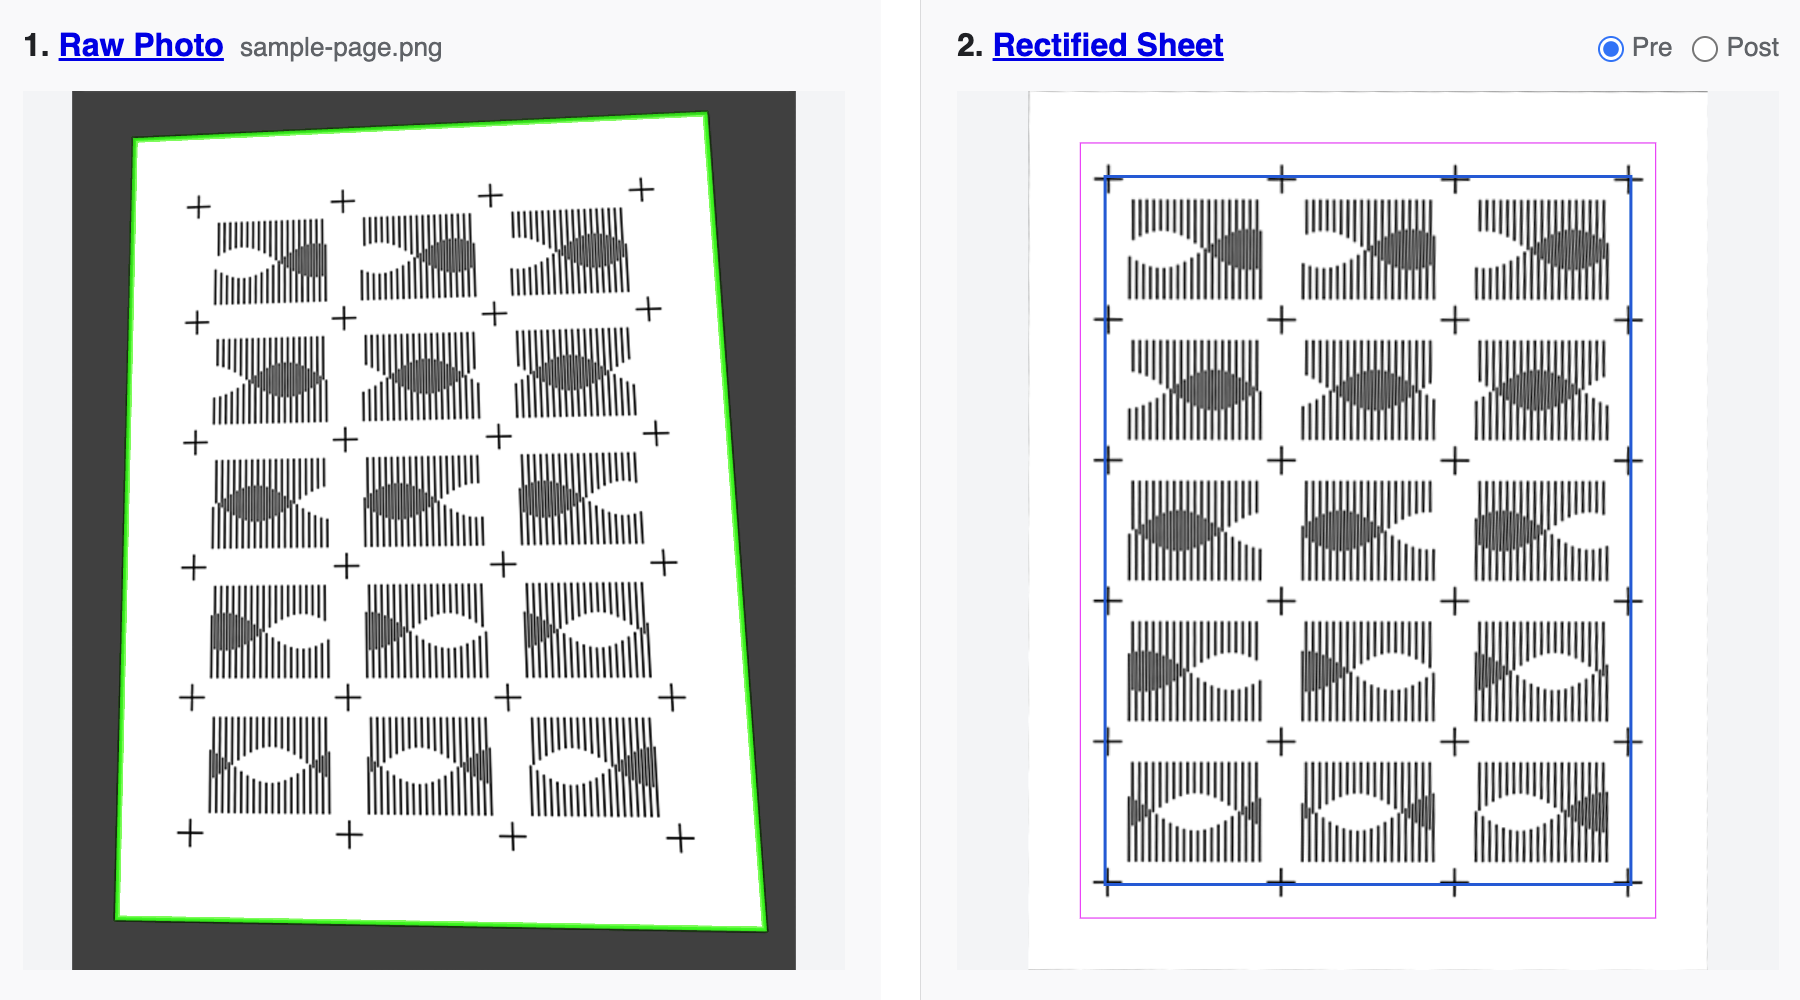
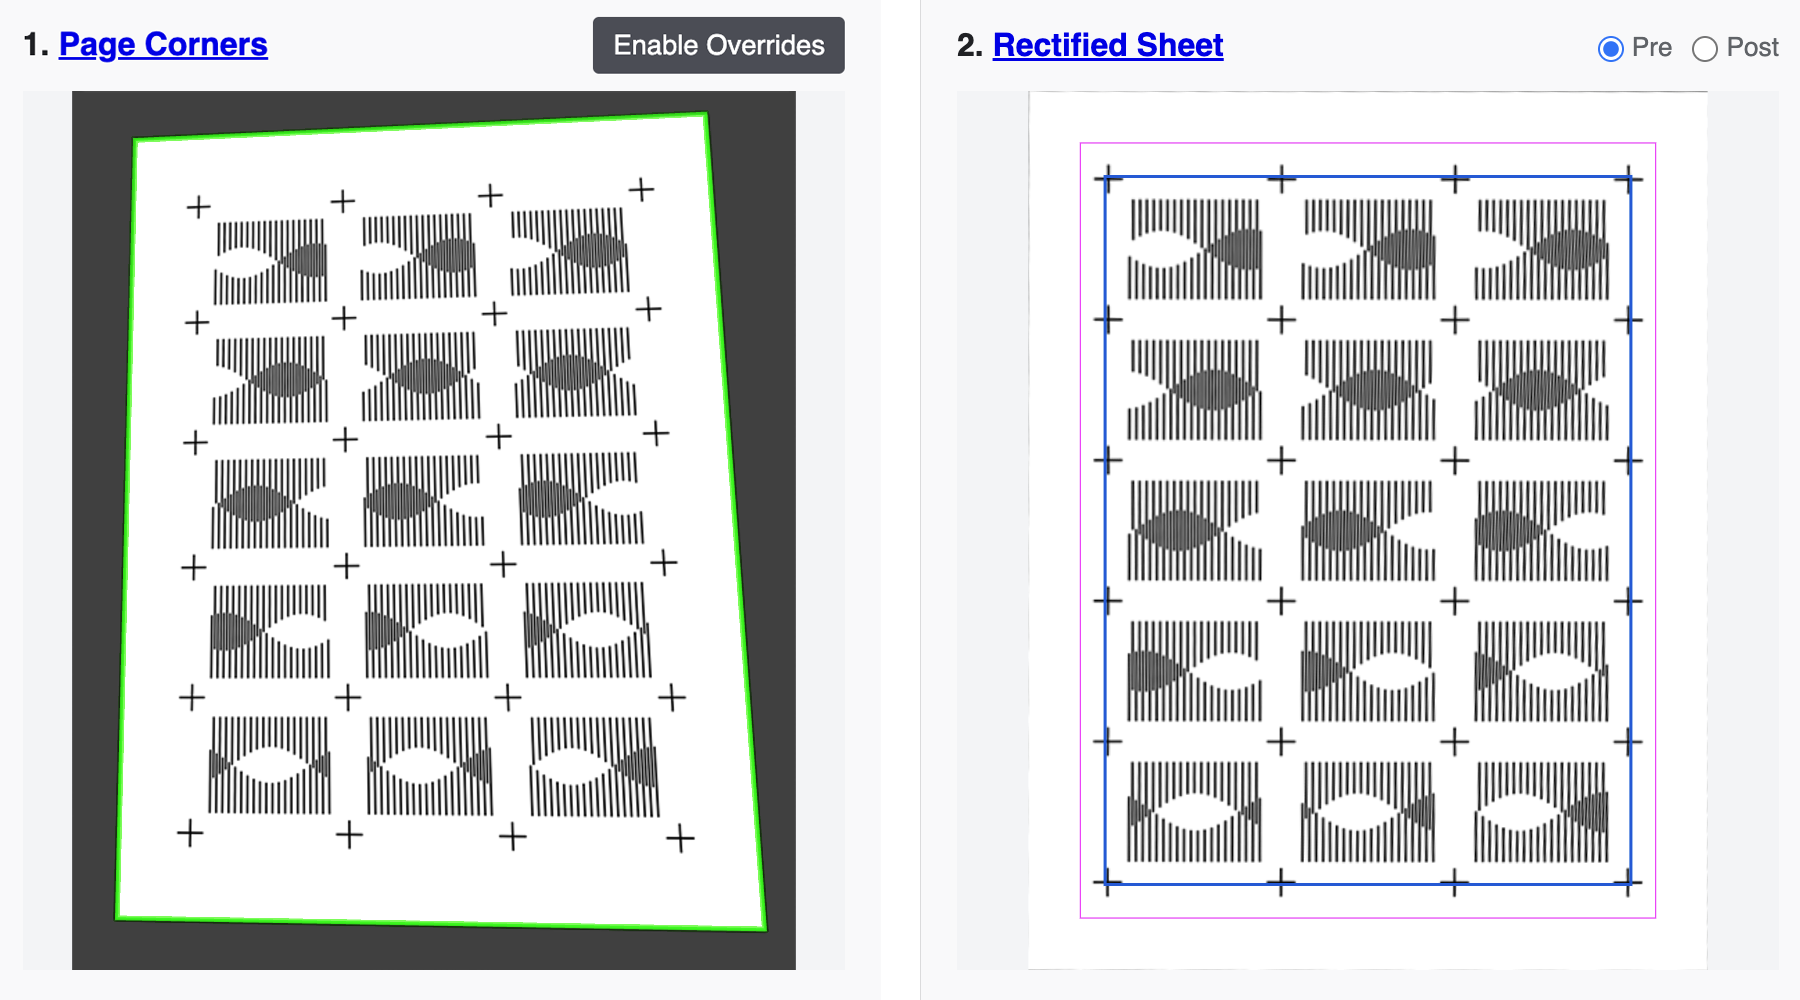
upda

Changed region(s): [[0.3111, 0.0, 0.4667, 0.093], [0.0311, 0.031, 0.2489, 0.062]]

diff --git a/plottimation/documentation.md b/plottimation/documentation.md
@@ -300,6 +300,20 @@ Use `Export Options` to control the size, timing, ordering, and encoding of the 
 
 ---
 
+## Page Corners Panel Header Buttons
+
+*The `Page Corners` panel allows you to manually edit the page corners, if desired.*
+
+<img src="doc/ui_page_corners.png" width="330">
+
+* `Enable Overrides` –
+  Turns on interactive manual editing of the Page Corners. This is useful if the automatic page corner detection is incorrect or has failed. Enabling manual editing disables the Page Detection Threshold slider. 
+* `Clear Edits` –
+  Deletes manually-edited page corners and restores automatically-detected ones, if any. 
+
+
+---
+
 ## Preview Panel Header Buttons
 
 *The `Preview & Export` panel header contains the export actions.*
@@ -347,7 +361,7 @@ The `Enable Tooltips` / `Disable Tooltips` button in the panel header toggles ex
 The four main viewer panels are:
 
 1. `Page Corners` –
-  Shows the source photo, with the detected or manually edited page outline drawn in green. The header buttons let you enable manual page-corner overrides and clear them when needed.
+  Shows the source photo, with the automatically detected or manually edited page outline drawn in green. The header buttons let you enable manual page-corner overrides and clear them when needed.
 2. `Rectified Grid` –
   Shows either the full rectified page warp or the cropped rectified grid used for frame extraction, along with the current frame quad. Use the header's `Pre` / `Post` buttons to switch between those two views:
   - `Pre` shows the full page warp before frame-grid crop/re-rectification. In `Pre`, the blue outline shows the detected frame-grid search result and the magenta outline shows the current `Grid Search Inset X/Y` region.

diff --git a/plottimation/README.md b/plottimation/README.md
@@ -23,7 +23,7 @@ Version 1.17 • By @GolanLevin, Spring 2026.
 3. **Open** the [**Plottimation Tool**](https://golanlevin.github.io/plottimation/) in a browser, from [**here**](https://golanlevin.github.io/plottimation).
 4. **Load** the image of your frame sheet into the Plottimation Tool. You can do this by dragging your image file onto the Tool's load target (where it says "Drop a photo or scan here"), or by clicking the target to load a file.
 5. Under the *Layout* tab, **set** `Frame Columns` and `Frame Rows` to match the layout of your sheet's grid of frames. You should also set your sheet's orientation (landscape or portrait) and page size (11×8.5, etc.).
-6. It's time to **detect** your page and **extract** its grid of frames. **Adjust** the `Page Detection Threshold` slider in the *Page & Grid Detection* tab until you see a bright green frame around your page in the `Page Corners` panel. You may also need to adjust other settings, such as `Grid Search Inset X` and `Grid Search Inset Y`. If your sheet uses light ink on dark paper, enable `Light-on-dark design`.<br><img src="doc/page-rectification.png" height="250">
+6. It's time to **detect** your page and **extract** its grid of frames. **Adjust** the `Page Detection Threshold` slider in the *Page & Grid Detection* tab until you see a bright green frame around your page in the `Page Corners` panel. You may also need to adjust other settings, such as `Grid Search Inset X` and `Grid Search Inset Y`. If your sheet uses light ink on dark paper, enable `Light-on-dark design`. If necessary you can specify the page corners manually in the Page Corners panel.<br><img src="doc/page-rectification.png" height="250">
 7. **Choose** the correct `Alignment Pipeline` for your frame sheet:
    - `Markers (crosses, dots)` for marker-separated sheets, or 
    - `Markerless (gutters, frames)` for gutter-separated sheets without registration marks